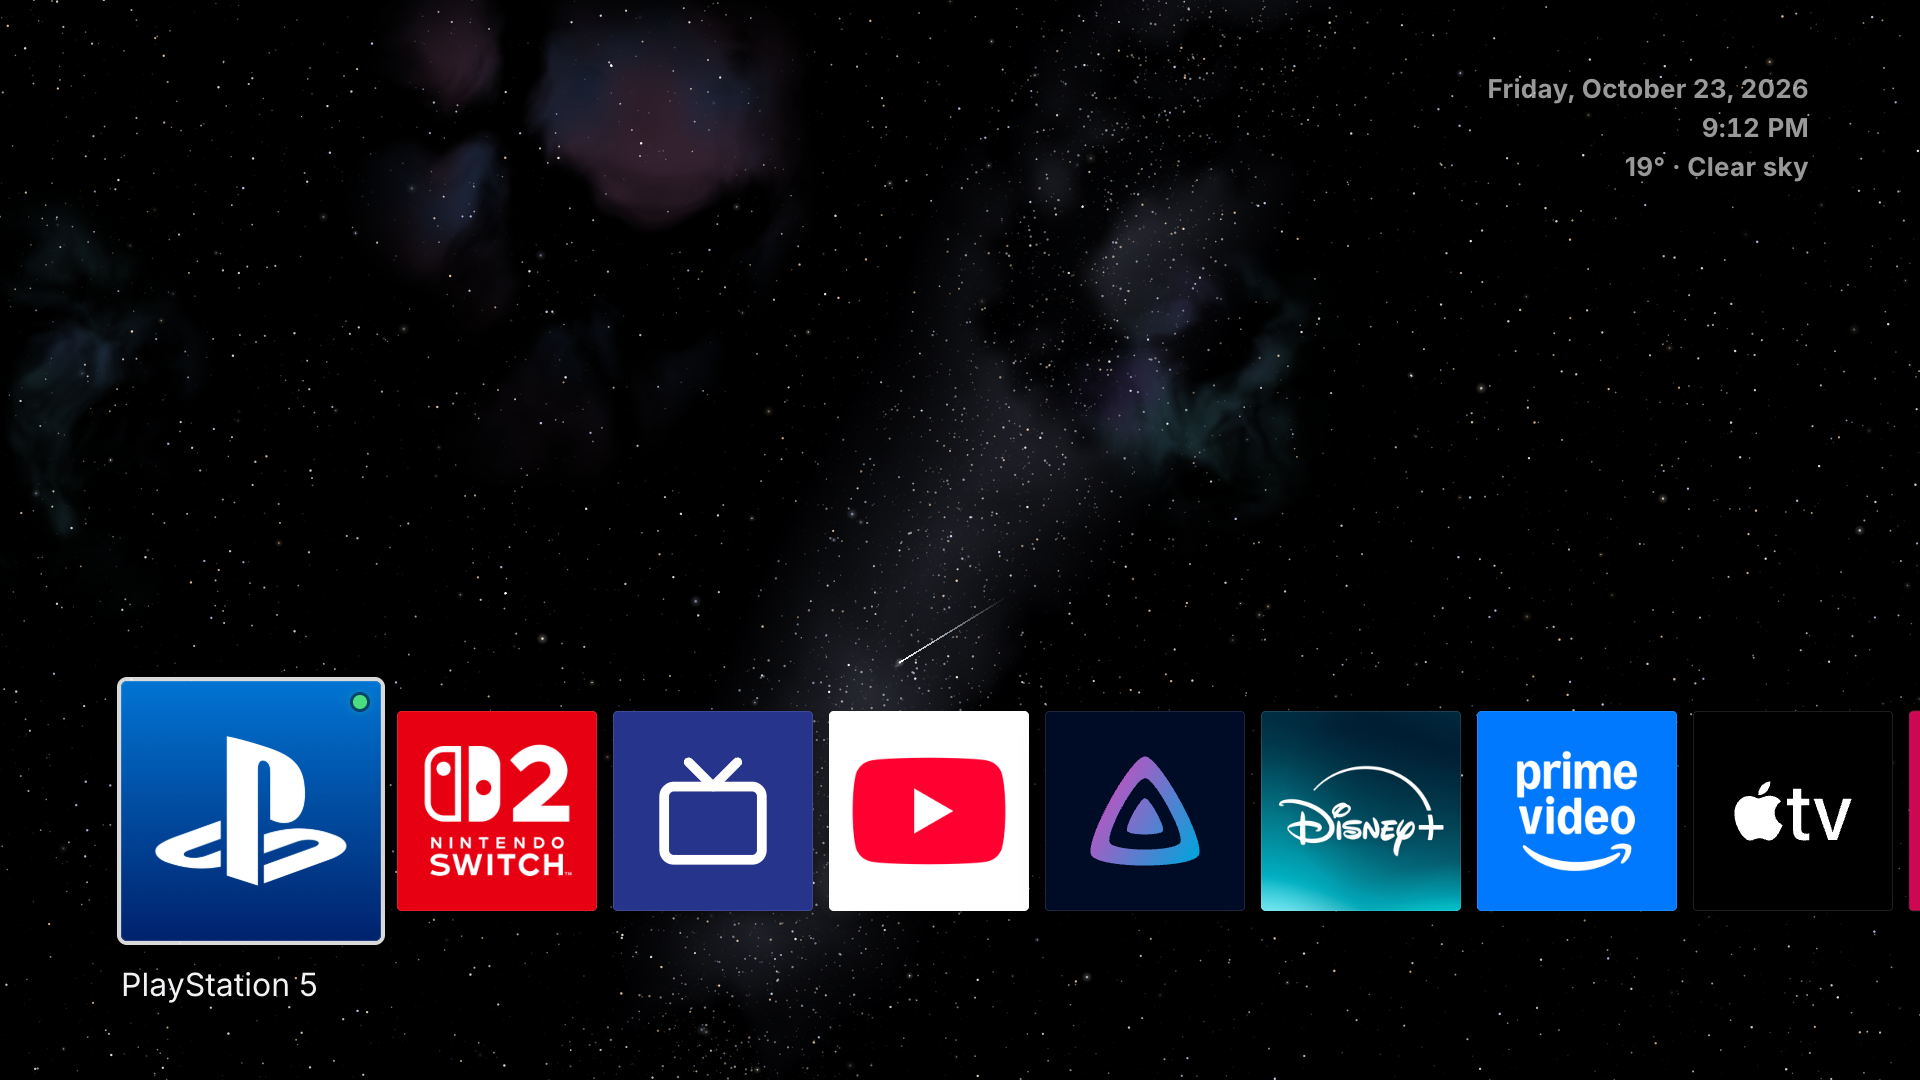
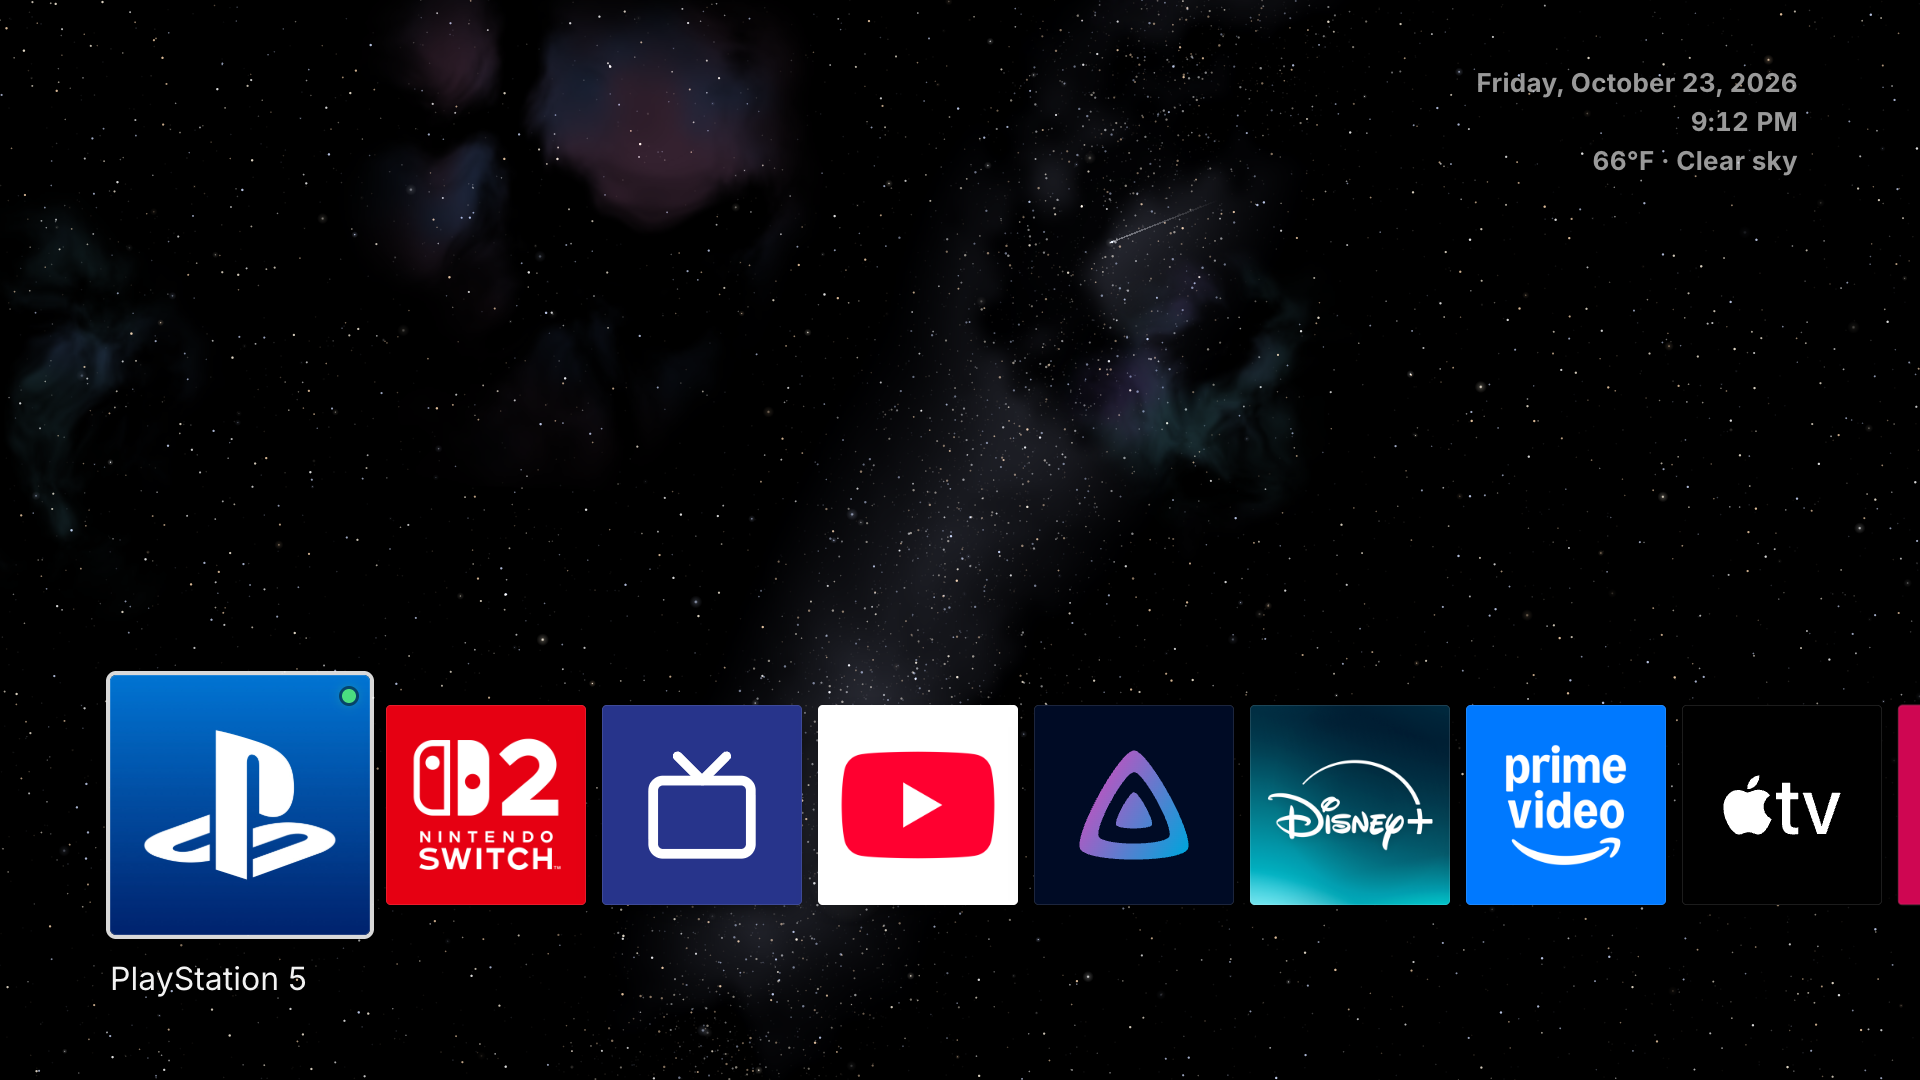
Show the temperature's unit, and Fahrenheit where it's used
GENKAN_TEMPERATURE_UNIT picks celsius or fahrenheit; without it the
unit follows the language's country, so US English gets Fahrenheit.
Open-Meteo is asked for that unit, and the line reads "66°F · Clear
sky". The README's images are taken again to match.

Changed region(s): [[0.0312, 0.6111, 1.0, 0.9472], [0.75, 0.0611, 0.9375, 0.1833]]

diff --git a/src/weather.ts b/src/weather.ts
@@ -1,12 +1,26 @@
-// One line under the clock, "22° · Cloudy" (in the TV's language), from Open-Meteo (free, no
+// One line under the clock, "22°C · Cloudy" (in the TV's language), from Open-Meteo (free, no
 // account or key). The place is GENKAN_LATITUDE / GENKAN_LONGITUDE in .env, read at build time;
 // without them the line stays empty.
-import {T} from './i18n';
+import {LOCALE, T} from './i18n';
 
 const LATITUDE = import.meta.env.GENKAN_LATITUDE;
 const LONGITUDE = import.meta.env.GENKAN_LONGITUDE;
 const REFRESH_MS = 15 * 60_000;
 const STALE_MS = 60 * 60_000; // an older reading is dropped rather than shown as current
+const FAHRENHEIT_REGIONS = ['US', 'BS', 'KY', 'LR', 'PW', 'FM', 'MH'];
+const UNIT = temperatureUnit();
+
+// GENKAN_TEMPERATURE_UNIT, or else the unit of the locale's country ("en" is taken as en-US).
+function temperatureUnit(): 'celsius' | 'fahrenheit' {
+  const pinned = import.meta.env.GENKAN_TEMPERATURE_UNIT;
+  if (pinned === 'celsius' || pinned === 'fahrenheit') return pinned;
+  try {
+    const region = new Intl.Locale(LOCALE).maximize().region ?? '';
+    return FAHRENHEIT_REGIONS.includes(region) ? 'fahrenheit' : 'celsius';
+  } catch {
+    return 'celsius';
+  }
+}
 
 // Open-Meteo reports the sky as a WMO weather code.
 function describe(code: number): string {
@@ -29,12 +43,13 @@ let last = 0; // when the shown reading was fetched
 
 async function refresh() {
   try {
-    const url = `https://api.open-meteo.com/v1/forecast?latitude=${LATITUDE}&longitude=${LONGITUDE}&current=temperature_2m,weather_code`;
+    const url = `https://api.open-meteo.com/v1/forecast?latitude=${LATITUDE}&longitude=${LONGITUDE}&current=temperature_2m,weather_code&temperature_unit=${UNIT}`;
     const res = await fetch(url);
     const {current} = (await res.json()) as {
       current: {temperature_2m: number; weather_code: number};
     };
-    line.textContent = `${Math.round(current.temperature_2m)}° · ${describe(current.weather_code)}`;
+    const degrees = `${Math.round(current.temperature_2m)}°${UNIT === 'fahrenheit' ? 'F' : 'C'}`;
+    line.textContent = `${degrees} · ${describe(current.weather_code)}`;
     last = Date.now();
   } catch {
     // offline or refused: keep the reading for now, and try again next minute

diff --git a/src/i18n.ts b/src/i18n.ts
@@ -107,7 +107,7 @@ declare global {
   }
 }
 
-const LOCALE = String(
+export const LOCALE = String(
   import.meta.env.GENKAN_LANG ||
     window.webOSSystem?.locale ||
     window.PalmSystem?.locale ||

diff --git a/README.md b/README.md
@@ -67,13 +67,15 @@ npm install
 Then a `.env` with the TV's address and, for the weather, your location (read
 at build time; without it the weather line stays hidden). `GENKAN_LANG` is
 optional: it pins genkan to `en`, `pt-BR` or `es` whatever the TV's menus are
-in.
+in. So is `GENKAN_TEMPERATURE_UNIT`, `celsius` or `fahrenheit`: without it,
+the unit follows the language's country (Fahrenheit for US English).
 
 ```sh
 TV_IP=192.168.x.x
 GENKAN_LATITUDE=-23.55
 GENKAN_LONGITUDE=-46.63
 GENKAN_LANG=pt-BR
+GENKAN_TEMPERATURE_UNIT=celsius
 ```
 
 ### Make it yours
@@ -87,6 +89,7 @@ GENKAN_LANG=pt-BR
 | Night hours | [`src/night.ts`](src/night.ts) |
 | Screensaver and panel-off times | [`src/screensaver.ts`](src/screensaver.ts) |
 | Language | `GENKAN_LANG` in `.env` |
+| Temperature unit | `GENKAN_TEMPERATURE_UNIT` in `.env` |
 | Wording, and another language | [`src/i18n.ts`](src/i18n.ts) |
 
 > App IDs must match apps **installed on your TV**; an HDMI input is
